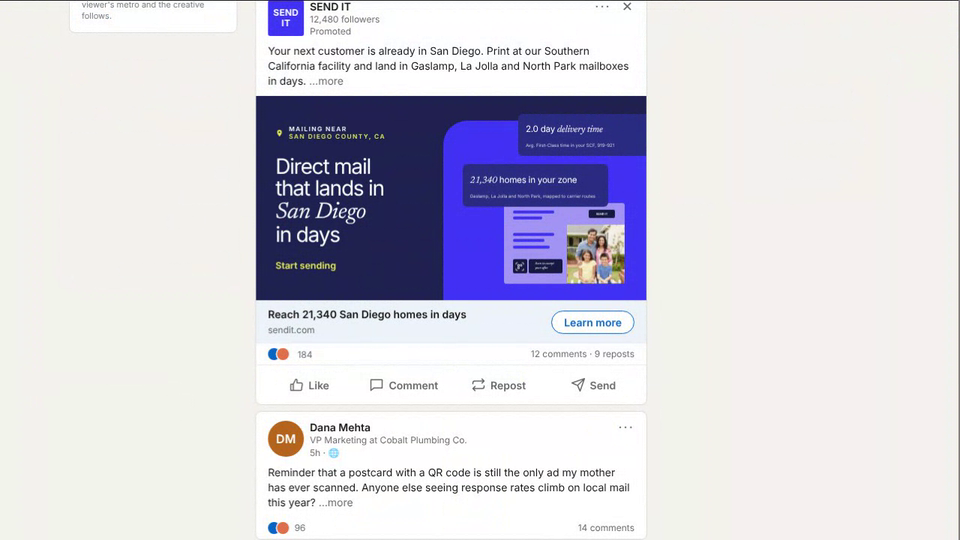
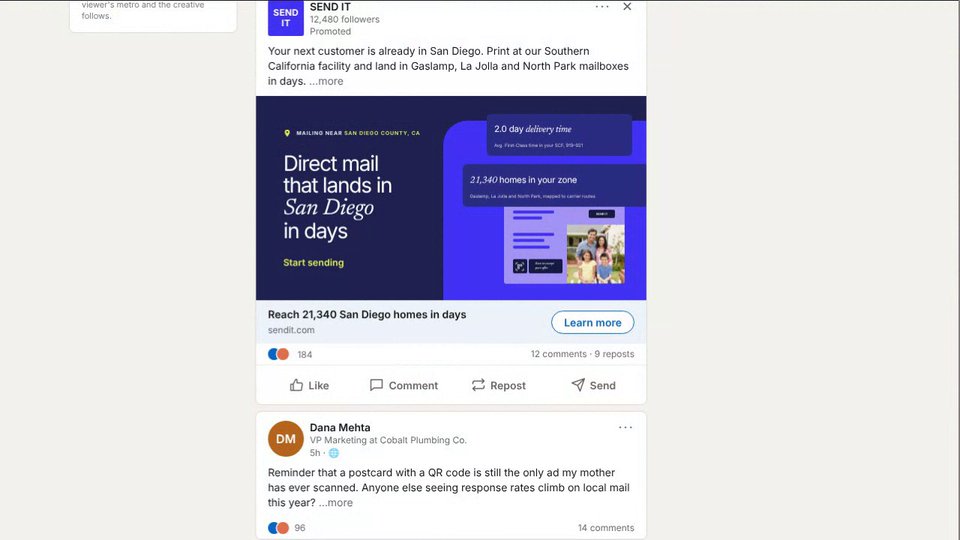
Paid Ad Pipeline: wider ad blurb on one line, top blurb left, wider left margin
Claude-Session: https://claude.ai/code/session_01AHeBe16MbJ3hGUT21NJCss

Changed region(s): [[0.2812, 0.237, 0.4375, 0.5037], [0.5, 0.2074, 0.625, 0.2963], [0.625, 0.2074, 0.6875, 0.3852]]

diff --git a/paid-ad-pipeline/index.html b/paid-ad-pipeline/index.html
@@ -67,8 +67,8 @@ nav.back span{color:#6e6e6e}nav.back b{font-weight:500;color:#fff;overflow:hidde
 .ad .cr .sw,.ad .tx .sw{transition:opacity .3s,transform .3s,filter .3s;display:inline-block}
 .ad .out{opacity:0!important;filter:blur(4px)}
 .ad .cr{background:var(--ink)}
-.cr .l{position:absolute;left:5cqw;top:0;bottom:0;width:41cqw;display:flex;flex-direction:column;justify-content:center}
-.cr .chip{display:inline-flex;align-items:center;gap:1.4cqw;font:600 1.6cqw var(--sans);letter-spacing:.17em;text-transform:uppercase}
+.cr .l{position:absolute;left:7cqw;top:0;bottom:0;width:40cqw;display:flex;flex-direction:column;justify-content:center}
+.cr .chip{display:inline-flex;align-items:center;gap:1.2cqw;white-space:nowrap;font:600 1.35cqw var(--sans);letter-spacing:.12em;text-transform:uppercase}
 .cr .chip svg{width:2.2cqw;height:2.2cqw;fill:var(--lime)}.cr .chip em{font-style:normal;color:var(--lime)}
 .cr h4{font:400 5.4cqw/1.04 var(--sans);letter-spacing:-.045em;margin:4cqw 0 3.6cqw;white-space:nowrap}
 .cr h4 i{font:italic 400 5.8cqw var(--serif);letter-spacing:-.01em}
@@ -77,7 +77,7 @@ nav.back span{color:#6e6e6e}nav.back b{font-weight:500;color:#fff;overflow:hidde
 .cr .stage>*{pointer-events:none}
 .cr .bl{position:absolute;width:60%;background:var(--card);border-radius:6px;padding:2.6cqw 3cqw;color:#fff;z-index:3}
 .cr .bl strong{display:block;font:400 3.6cqw/1.1 var(--sans);letter-spacing:-.02em}.cr .bl strong i{font:italic 400 3.8cqw var(--serif)}
-.cr .bl p{font:400 1.85cqw/1.4 var(--sans);color:rgba(255,255,255,.75);margin-top:1.2cqw}
+.cr .bl p{white-space:nowrap;font:400 1.85cqw/1.4 var(--sans);color:rgba(255,255,255,.75);margin-top:1.2cqw}
 .cr .box{position:absolute;left:0;right:0;top:7%;bottom:0;background:var(--purple);border-radius:32px;overflow:hidden}
 .cr .mail{position:absolute;z-index:2;left:25%;top:41%;width:50%;aspect-ratio:1.5;border-radius:3px;overflow:hidden;background:#a393f5}
 .cr .mail .el{position:absolute}
@@ -209,7 +209,7 @@ tfoot td{font-weight:600;border-top:1px solid rgba(255,255,255,.25)}
     <a class="cr" id="adCr" href="https://kristynagottvald.github.io/sandbox/location-hero/?utm_source=linkedin&amp;utm_medium=paid_social&amp;utm_campaign=location_hero" aria-label="Direct mail that lands in your city in days. Opens the landing page">
      <div class="l"><div class="chip"><svg viewBox="0 0 24 24"><path d="M12 2a7 7 0 0 0-7 7c0 5.200 7 13 7 13s7-7.800 7-13a7 7 0 0 0-7-7zm0 9.500a2.500 2.500 0 1 1 0-5 2.500 2.500 0 0 1 0 5z"/></svg><span>Mailing near <em class="sw" id="crCity"></em></span></div>
       <h4><span class="sw" id="crH"></span></h4><div class="form">Start sending</div></div>
-     <div class="stage"><div class="bl" style="left:31%;top:4%"><strong class="sw" id="b1h"></strong><p class="sw" id="b1p"></p></div><div class="bl" style="left:8%;top:25%"><strong class="sw" id="b2h"></strong><p class="sw" id="b2p"></p></div>
+     <div class="stage"><div class="bl" style="left:18%;top:4%"><strong class="sw" id="b1h"></strong><p class="sw" id="b1p"></p></div><div class="bl" style="left:8%;top:25%;width:78%"><strong class="sw" id="b2h"></strong><p class="sw" id="b2p"></p></div>
       <div class="box"></div>
       <div class="mail"><div class="el bar2" style="left:7.7%;top:9%;width:34%;height:4.2%"></div><div class="el bar2" style="left:7.7%;top:16.5%;width:24%;height:4.2%"></div><div class="el tag" style="left:70%;top:8.5%;width:22%;height:10%">SEND IT</div>
        <div class="el bar2" style="left:7.7%;top:37%;width:34%;height:3.6%"></div><div class="el bar2" style="left:7.7%;top:45%;width:26%;height:3.6%"></div><div class="el bar2" style="left:7.7%;top:53%;width:30%;height:3.6%"></div>
